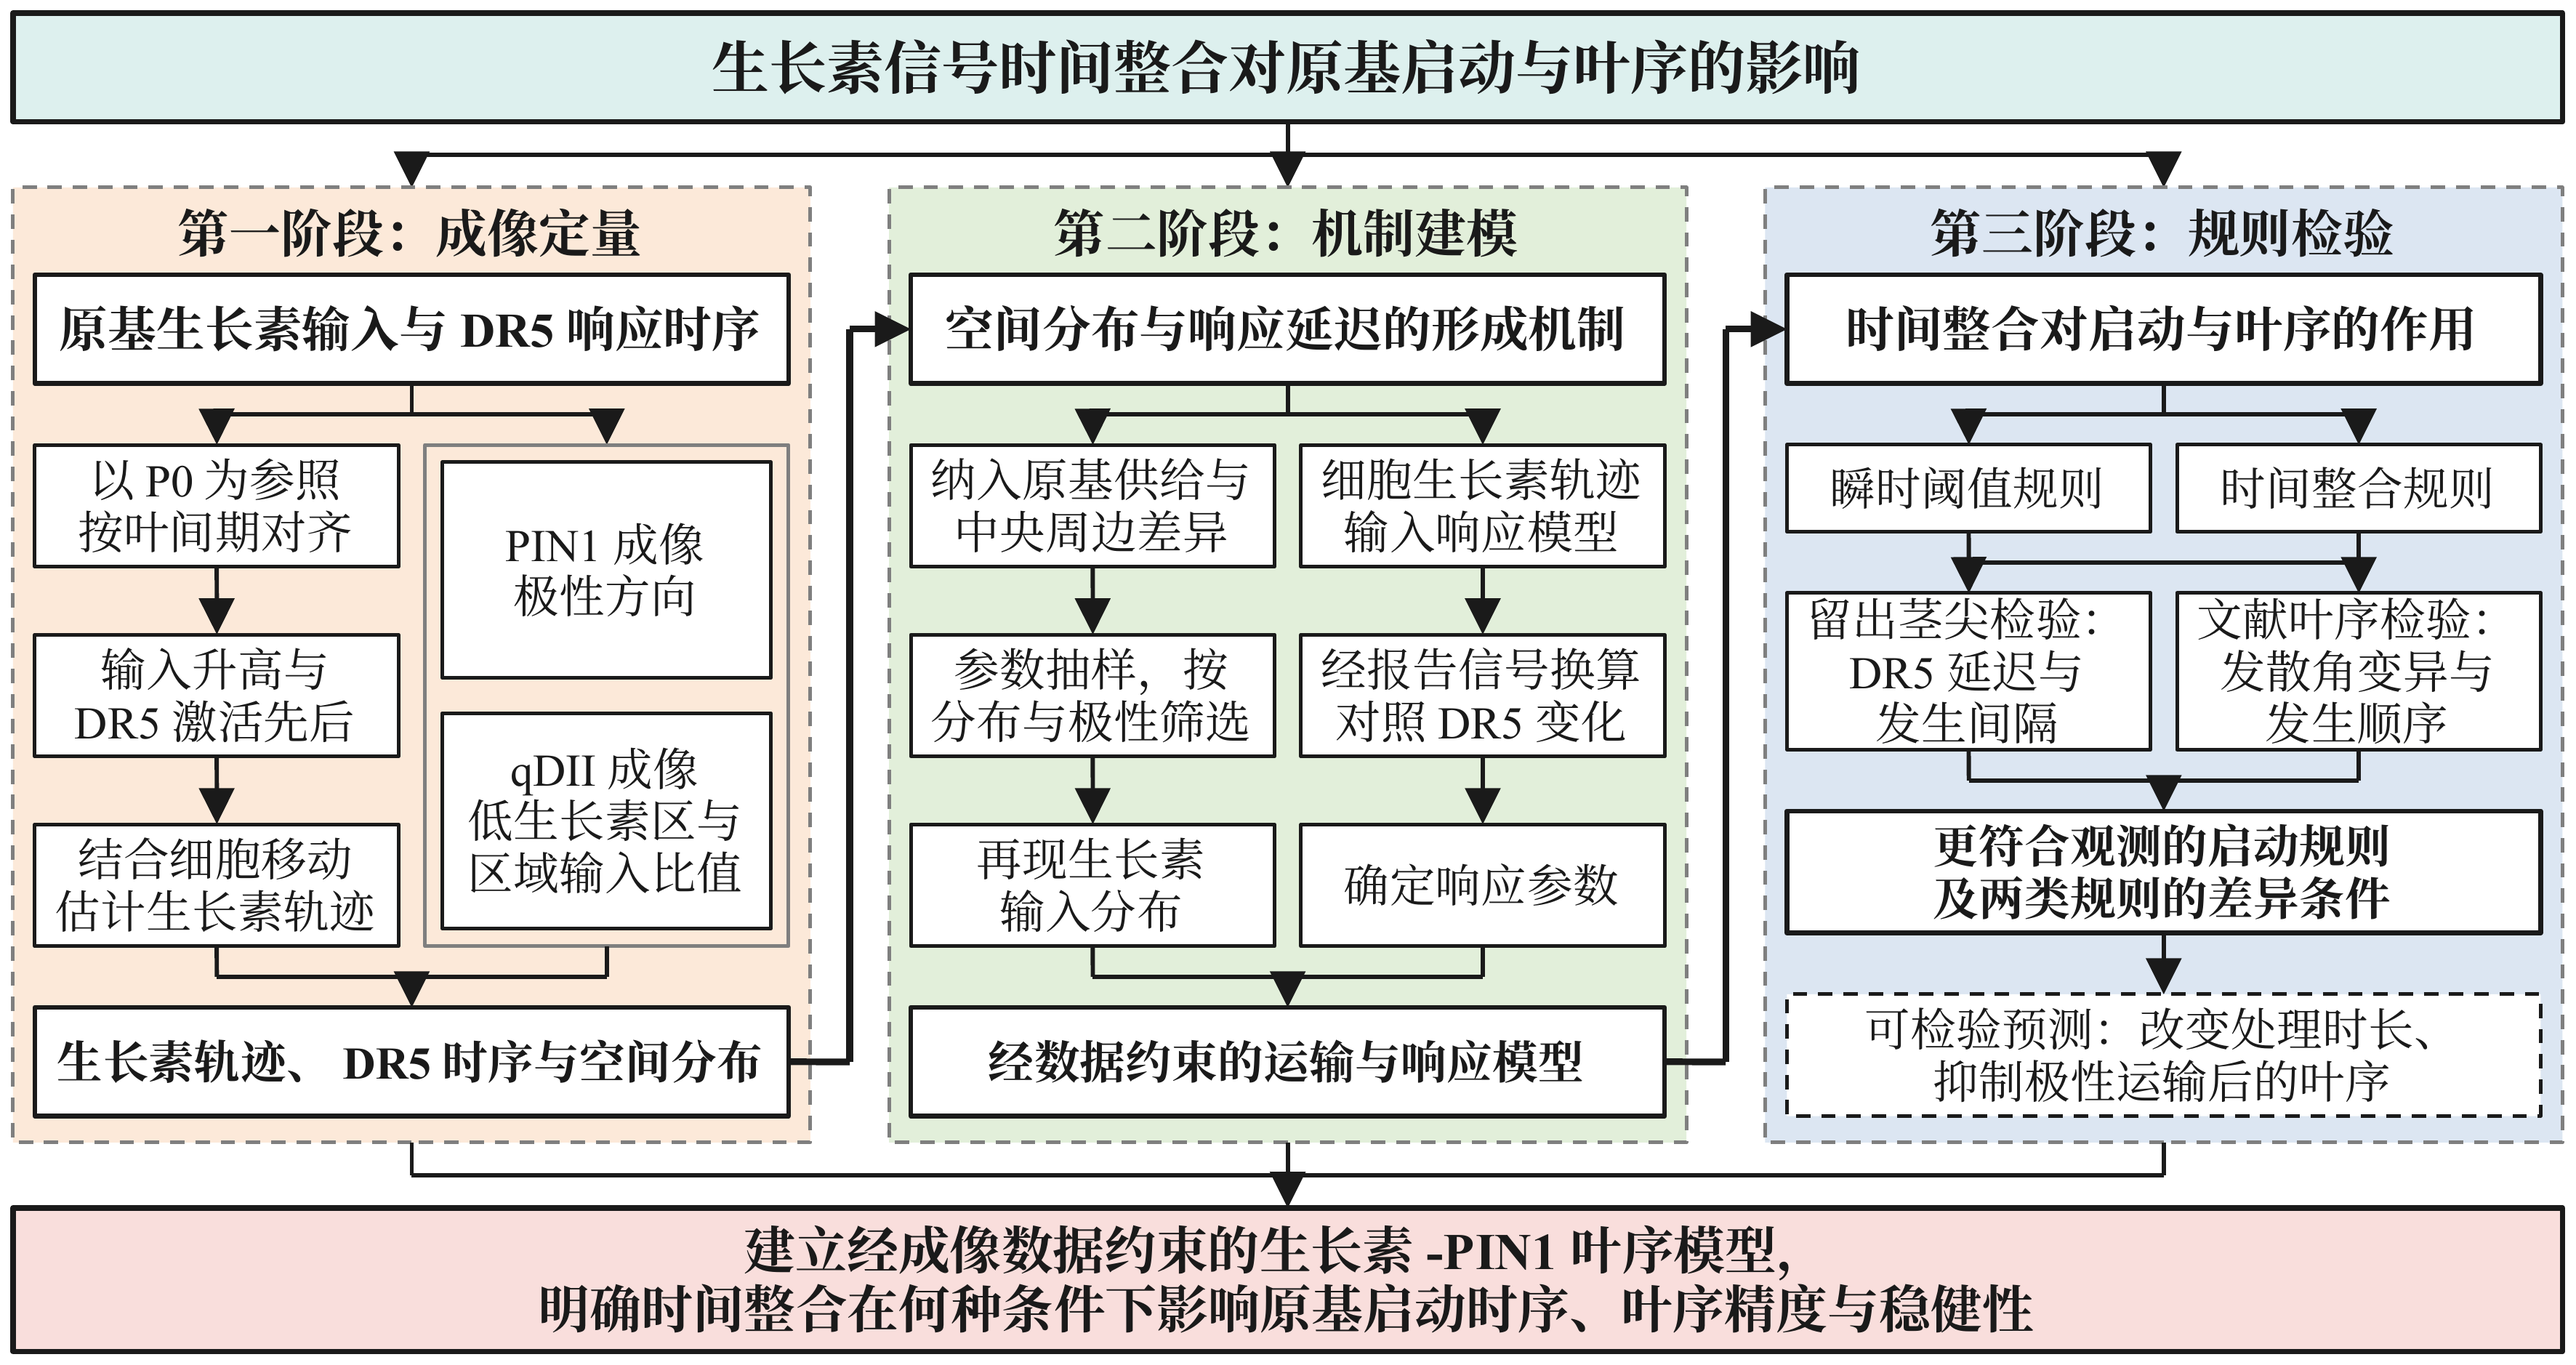
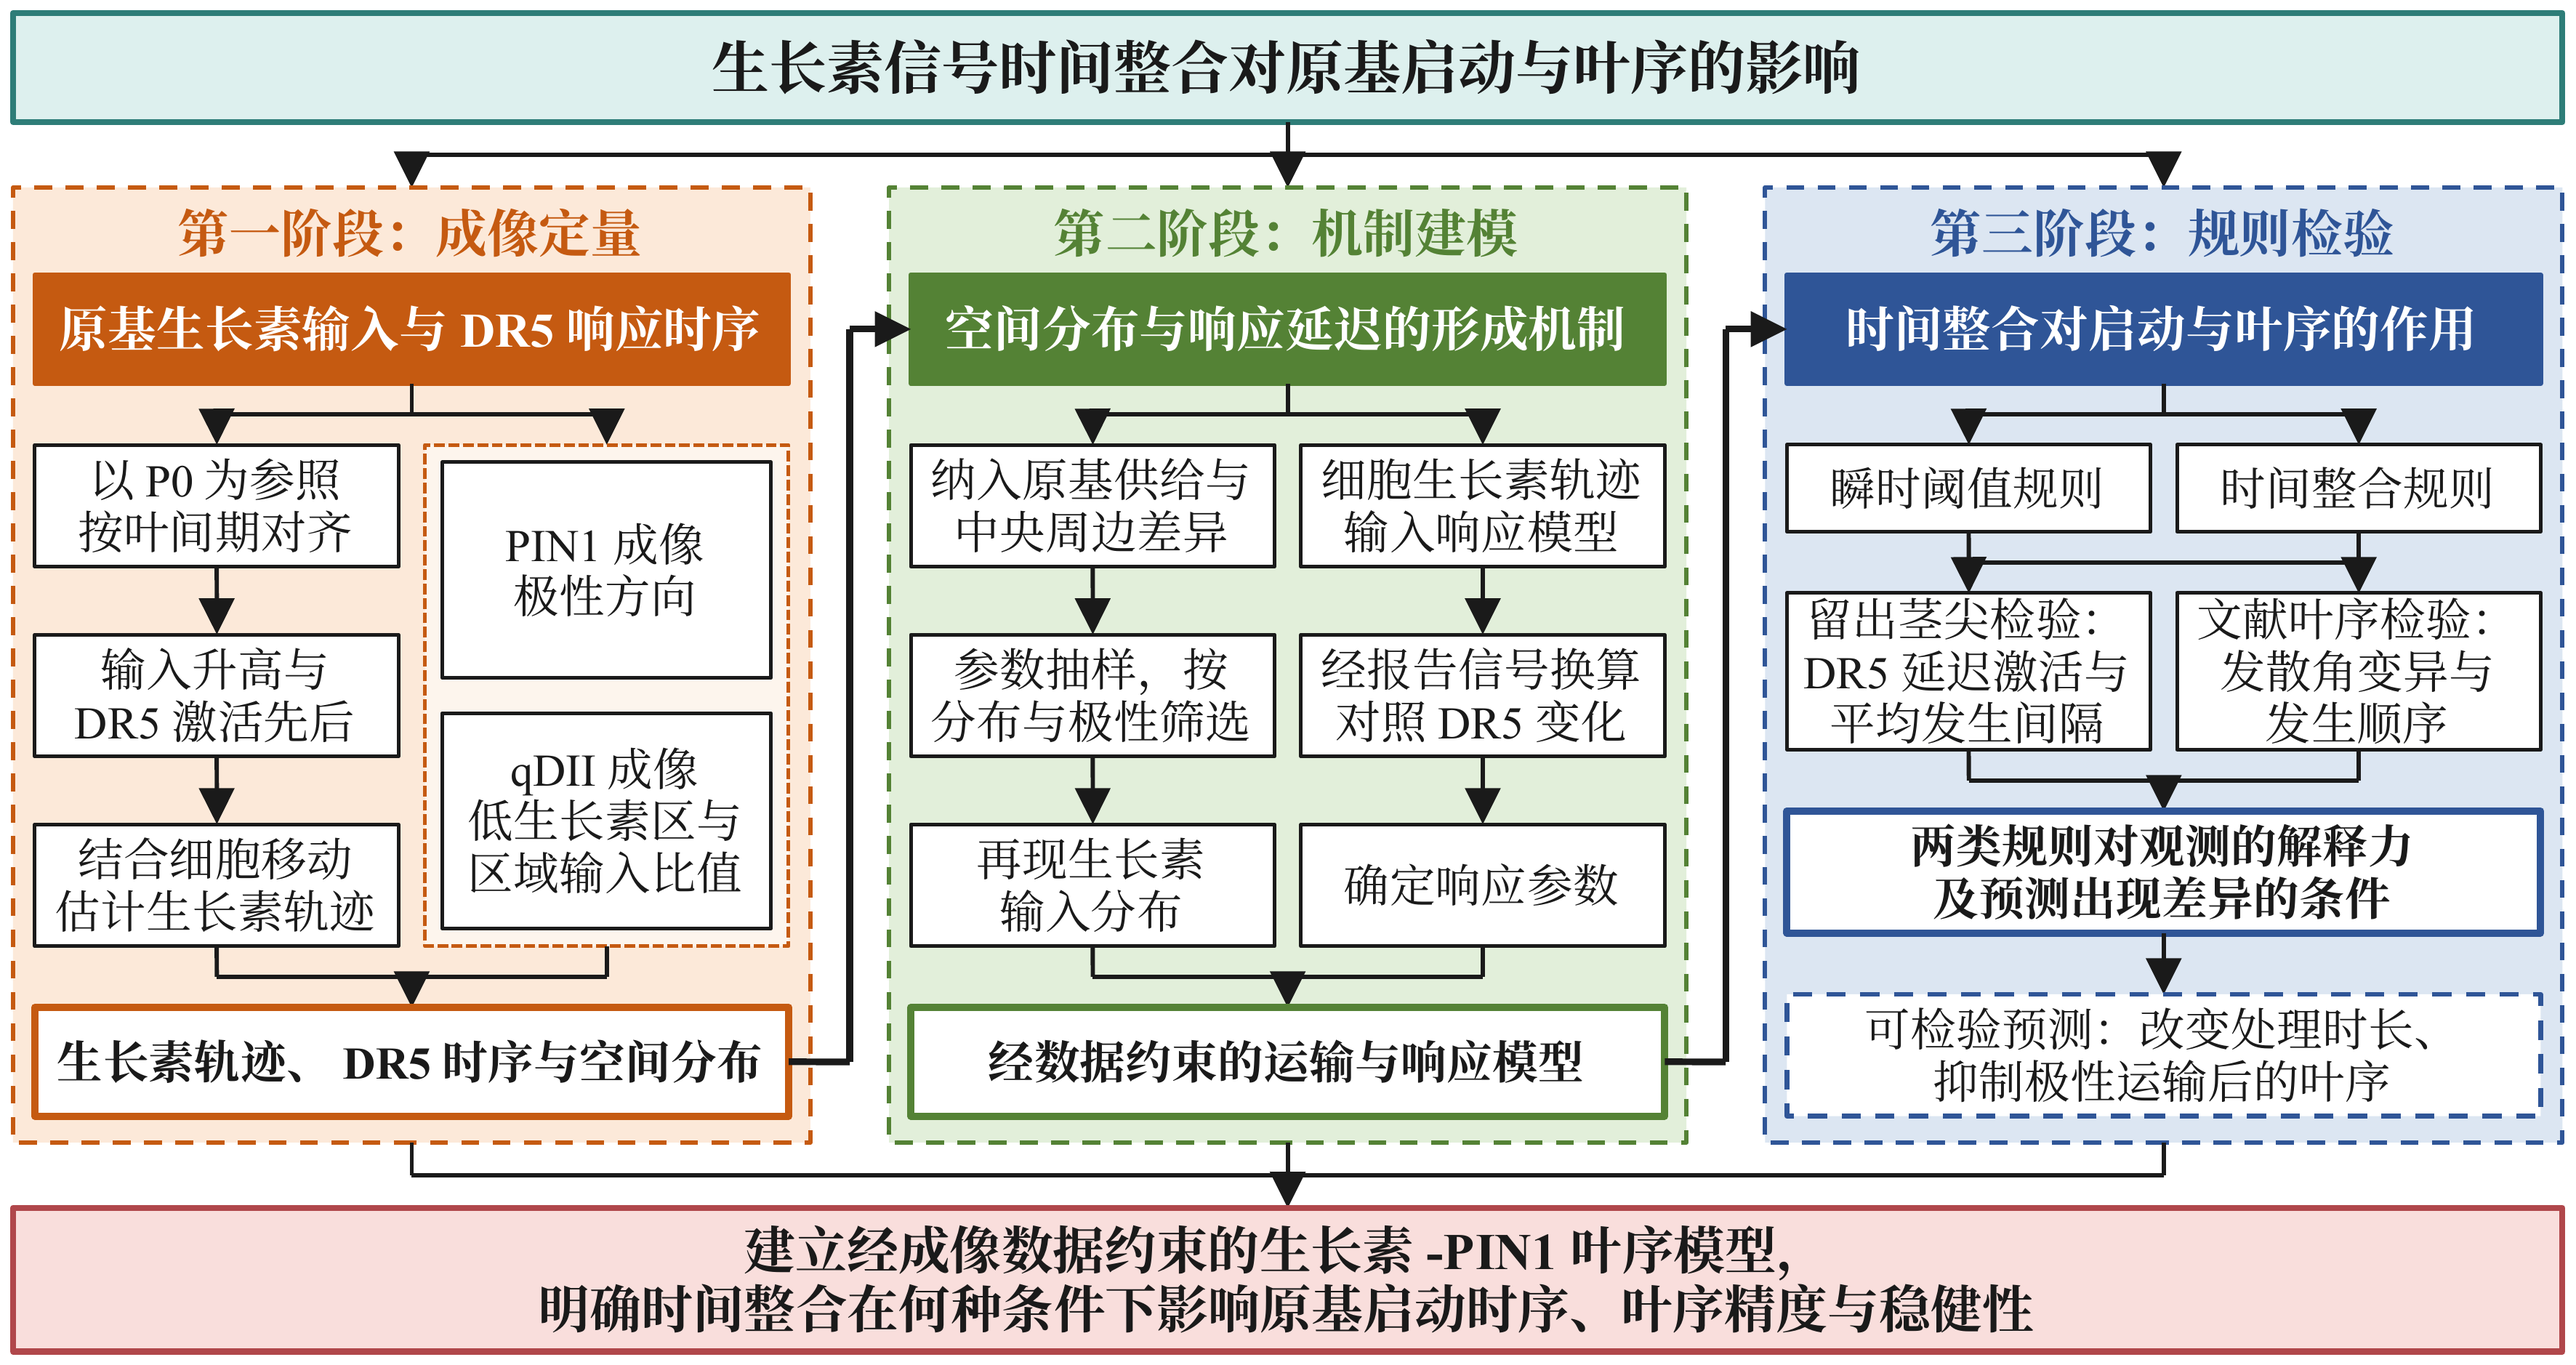
Fig. 2-1: stage-3 wording and colour hierarchy
- Held-out test box: DR5 delayed activation and mean plastochron, as in
  the text.
- Stage-3 result: explanatory power of the two rules and the conditions
  under which their predictions differ.
- Stage accents: sub-problem boxes filled in the stage colour, results
  outlined in it, predictions dashed; frames, top and bottom borders
  coloured to match.

Claude-Session: https://claude.ai/code/session_01BHCDdTyVHVBXyaT1pkArZu

diff --git a/figures/prior_work/ppt/roadmap.js b/figures/prior_work/ppt/roadmap.js
@@ -8,6 +8,7 @@ const INK = "1A1A1A", FRAME = "7F7F7F";
 const FONT = "Times New Roman";                  // East Asian runs are set to 宋体 afterwards (fix_fonts.py)
 const FS = 7.5, FS_H = 8.5, FS_T = 9.5;
 const TINT = ["FCE9D9", "E2EFDA", "DCE6F2"], TOP = "DDF0EE", BOTTOM = "F9DEDC";
+const ACC = ["C55A11", "548235", "2F5597"], TOP_LC = "2E7D78", BOTTOM_LC = "B0474B";   // stage accents; top / bottom borders
 
 const pres = new pptxgen();
 pres.defineLayout({ name: "FIG", width: W, height: H });
@@ -17,8 +18,8 @@ const s = pres.addSlide();
 
 function box(x, y, w, h, runs, o = {}) {
   s.addText(runs, {
-    x, y, w, h, fontFace: FONT, fontSize: o.fs || FS, bold: !!o.bold, color: INK, align: "center", valign: "middle",
-    fill: o.fill ? { color: o.fill } : undefined,
+    x, y, w, h, fontFace: FONT, fontSize: o.fs || FS, bold: !!o.bold, color: o.color || INK, align: "center", valign: "middle",
+    fill: o.fill ? { color: o.fill, transparency: o.transp || 0 } : undefined,
     line: o.noline ? { type: "none" } : { color: o.lc || INK, width: o.lw || 0.6, dashType: o.dash || "solid" },
     margin: [1, 1.5, 1, 1.5], lineSpacingMultiple: 0.95, objectName: o.name,
   });
@@ -56,7 +57,7 @@ function chain(x, y, w, texts, h, gap, fill) {    // vertical chain of boxes; re
 
 const M = 0.03, BH = 0.28, TG = 0.14;              // margin, box height, gap of a split/merge
 const FS_Q = 8;                                    // stage sub-problem boxes
-box(M, 0.03, W - 2 * M, 0.25, "生长素信号时间整合对原基启动与叶序的影响", { fs: FS_T, bold: true, fill: TOP, lw: 0.9, name: "topic" });
+box(M, 0.03, W - 2 * M, 0.25, "生长素信号时间整合对原基启动与叶序的影响", { fs: FS_T, bold: true, fill: TOP, lc: TOP_LC, lw: 1.0, name: "topic" });
 
 const GAP = 0.18, FW = (W - 2 * M - 2 * GAP) / 3, FY = 0.43;
 const HH = 0.25, IN = FY + 0.2;                   // sub-problem box height and top
@@ -70,9 +71,9 @@ split(W / 2, 0.28, fx.map((x) => x + FW / 2), FY);
 // frame: tinted stage band with "stage: approach" on top and the stage's sub-problem in the white box
 function frame(k, name, problem) {
   const x = fx[k];
-  box(x, FY, FW, FH, "", { fill: TINT[k], lc: FRAME, dash: "dash", name: `frame_${k}` });
-  box(x, FY + 0.02, FW, 0.17, name, { fs: FS_H, bold: true, noline: true });
-  box(x + PAD, IN, FW - 2 * PAD, HH, problem, { fs: FS_Q, bold: true, fill: "FFFFFF", lw: 0.8, name: `problem_${k}` });
+  box(x, FY, FW, FH, "", { fill: TINT[k], lc: ACC[k], lw: 0.75, dash: "dash", name: `frame_${k}` });
+  box(x, FY + 0.02, FW, 0.17, name, { fs: FS_H, bold: true, color: ACC[k], noline: true });
+  box(x + PAD, IN, FW - 2 * PAD, HH, problem, { fs: FS_Q, bold: true, color: "FFFFFF", fill: ACC[k], lc: ACC[k], lw: 0.8, name: `problem_${k}` });
   const hx = x + PAD, hw = FW - 2 * PAD, tw = (hw - TS) / 2;
   return { cx: x + FW / 2, hx, hw, tw, tx: [hx, hx + tw + TS], mids: [hx + tw / 2, hx + tw + TS + tw / 2] };
 }
@@ -85,12 +86,12 @@ const AG = (OY - TG - ty - 3 * BH) / 2;           // arrow gap inside a three-st
   split(f.cx, IN + HH, f.mids, ty);
   const b0 = chain(f.tx[0], ty, f.tw, ["以P0为参照\n按叶间期对齐", "输入升高与\nDR5激活先后", "结合细胞移动\n估计生长素轨迹"], BH, AG, "FFFFFF");
   const gh = b0 - ty, gx = f.tx[1];
-  box(gx, ty, f.tw, gh, "", { lc: FRAME, lw: 0.6, name: "imaging_group" });
+  box(gx, ty, f.tw, gh, "", { fill: "FFFFFF", transp: 45, lc: ACC[0], lw: 0.6, dash: "sysDash", name: "imaging_group" });
   const ih = (gh - 0.04 * 2 - 0.08) / 2;
   box(gx + 0.04, ty + 0.04, f.tw - 0.08, ih, "PIN1成像\n极性方向", { fill: "FFFFFF" });
   box(gx + 0.04, ty + 0.04 + ih + 0.08, f.tw - 0.08, ih, "qDII成像\n低生长素区与\n区域输入比值", { fill: "FFFFFF" });
   merge(f.mids, [b0, b0], f.cx, OY);
-  box(f.hx, OY, f.hw, HH, "生长素轨迹、DR5时序与空间分布", { bold: true, fill: "FFFFFF", lw: 0.8 });
+  box(f.hx, OY, f.hw, HH, "生长素轨迹、DR5时序与空间分布", { bold: true, fill: "FFFFFF", lc: ACC[0], lw: 1.2, name: "result_0" });
 }
 
 // stage 2: transport model (left) and response model (right)
@@ -100,7 +101,7 @@ const AG = (OY - TG - ty - 3 * BH) / 2;           // arrow gap inside a three-st
   const b = [chain(f.tx[0], ty, f.tw, ["纳入原基供给与\n中央周边差异", "参数抽样，按\n分布与极性筛选", "再现生长素\n输入分布"], BH, AG, "FFFFFF"),
              chain(f.tx[1], ty, f.tw, ["细胞生长素轨迹\n输入响应模型", "经报告信号换算\n对照DR5变化", "确定响应参数"], BH, AG, "FFFFFF")];
   merge(f.mids, b, f.cx, OY);
-  box(f.hx, OY, f.hw, HH, "经数据约束的运输与响应模型", { bold: true, fill: "FFFFFF", lw: 0.8 });
+  box(f.hx, OY, f.hw, HH, "经数据约束的运输与响应模型", { bold: true, fill: "FFFFFF", lc: ACC[1], lw: 1.2, name: "result_1" });
 }
 
 // stage 3: both rules go through both tests -> judgement -> predictions that follow from it
@@ -116,14 +117,14 @@ const AG = (OY - TG - ty - 3 * BH) / 2;           // arrow gap inside a three-st
   seg(f.mids[0], by, f.mids[1], by);
   y += RB + TG;
   f.mids.forEach((m) => seg(m, by, m, y, true));
-  box(f.tx[0], y, f.tw, TB, "留出茎尖检验：\nDR5延迟与\n发生间隔", { fill: "FFFFFF" });
+  box(f.tx[0], y, f.tw, TB, "留出茎尖检验：\nDR5延迟激活与\n平均发生间隔", { fill: "FFFFFF" });
   box(f.tx[1], y, f.tw, TB, "文献叶序检验：\n发散角变异与\n发生顺序", { fill: "FFFFFF" });
   merge(f.mids, [y + TB, y + TB], f.cx, y + TB + TG);
   y += TB + TG;
-  box(f.hx, y, f.hw, BH, "更符合观测的启动规则\n及两类规则的差异条件", { bold: true, fill: "FFFFFF", lw: 0.8 });
+  box(f.hx, y, f.hw, BH, "两类规则对观测的解释力\n及预测出现差异的条件", { bold: true, fill: "FFFFFF", lc: ACC[2], lw: 1.2, name: "result_2" });
   seg(f.cx, y + BH, f.cx, y + BH + TG, true);
   y += BH + TG;
-  box(f.hx, y, f.hw, BH, "可检验预测：改变处理时长、\n抑制极性运输后的叶序", { fill: "FFFFFF", dash: "dash" });
+  box(f.hx, y, f.hw, BH, "可检验预测：改变处理时长、\n抑制极性运输后的叶序", { fill: "FFFFFF", lc: ACC[2], lw: 0.8, dash: "dash", name: "predictions" });
 }
 
 // links between stages: each stage's result goes along the gutter into the next stage's sub-problem box
@@ -141,6 +142,6 @@ merge(fx.map((x) => x + FW / 2), [fb, fb, fb], W / 2, RY);
 box(M, RY, W - 2 * M, H - RY - 0.03, [
   { text: "建立经成像数据约束的生长素-PIN1叶序模型，", options: { breakLine: true } },
   { text: "明确时间整合在何种条件下影响原基启动时序、叶序精度与稳健性", options: {} },
-], { fs: FS_H, bold: true, fill: BOTTOM, lw: 0.9, name: "conclusion" });
+], { fs: FS_H, bold: true, fill: BOTTOM, lc: BOTTOM_LC, lw: 1.0, name: "conclusion" });
 
 pres.writeFile({ fileName: process.argv[2] || "roadmap.pptx" }).then((f) => console.log("wrote", f));
